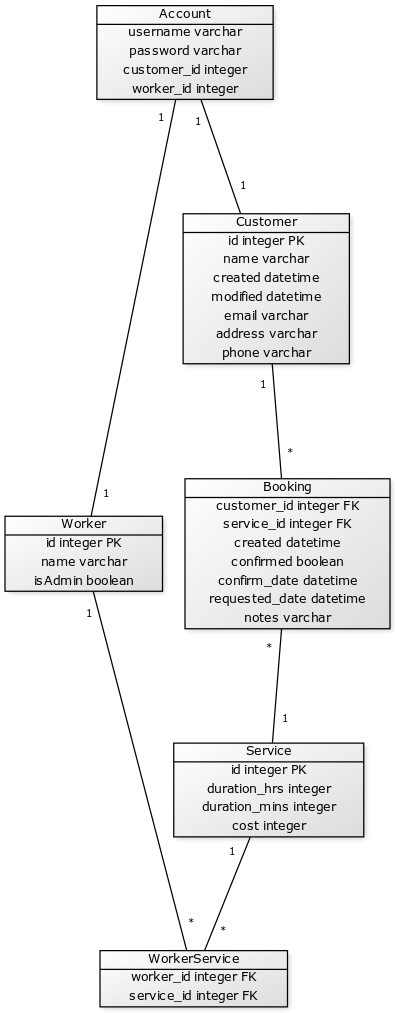
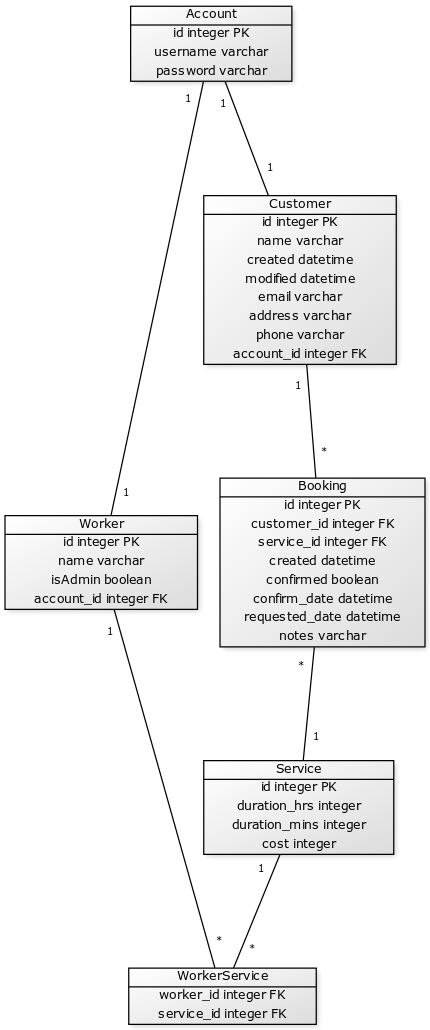
tietokantakaavion päivitys, Asiakkaan ja Työntekijän viiteavaimet Accout-tauluun

Changed region(s): [[0.0, 0.0, 1.0, 1.0]]

diff --git a/application/templates/account/loginform.html b/application/templates/account/loginform.html
@@ -6,13 +6,13 @@
 <form method="POST" action="{{ url_for('customer_login') }}">
     <table>
         <tr>
-          {{ form.name.label}}
+          {{ form.username.label}}
         </tr>
         <tr>
-            <td>{{ form.name}}</td>
+            <td>{{ form.username}}</td>
             <td>
                 <ul>
-                {% for error in form.name.errors %}
+                {% for error in form.username.errors %}
                 <li>{{ error }}</li>
                 {% endfor %}
                 </ul>
@@ -32,7 +32,7 @@
             </td>
         </tr>
     </table>
-  <input type="submit" name="login_customer "value="Login"/>
+  <input type="submit" name="user_login" value="Login"/>
   <input type="reset">
 </form>
 

diff --git a/application/customer/models.py b/application/customer/models.py
@@ -6,26 +6,14 @@ class Customer(db.Model):
     date_modified = db.Column(db.DateTime, default=db.func.current_timestamp(),
                               onupdate=db.func.current_timestamp())
     name = db.Column(db.String(144), nullable=False)
-    password = db.Column(db.String(144), nullable=False)
     email = db.Column(db.String(144), nullable=False)
     address = db.Column(db.String(144), nullable=False)
     phone = db.Column(db.String(144), nullable=False)
+    account_id = db.Column(db.Integer, db.ForeignKey('account.id'))
 
-    def __init__(self, name, password, email, address, phone):
+    def __init__(self, name, email, address, phone, account_id):
         self.name = name
-        self.password = password
         self.email = email
         self.address = address
         self.phone = phone
-
-    def get_id(self):
-        return self.id
-
-    def is_active(self):
-        return True
-
-    def is_anonymous(self):
-        return False
-
-    def is_authenticated(self):
-        return True
+        self.account_id = account_id

diff --git a/application/account/models.py b/application/account/models.py
@@ -1,0 +1,29 @@
+from application import db
+
+class Account(db.Model):
+    id = db.Column(db.Integer, primary_key=True)
+    date_created = db.Column(db.DateTime, default=db.func.current_timestamp())
+    date_modified = db.Column(db.DateTime, default=db.func.current_timestamp(),
+                              onupdate=db.func.current_timestamp())
+    username = db.Column(db.String(144), nullable=False)
+    password = db.Column(db.String(144), nullable=False)
+    linked_worker = db.relationship('Worker', backref='account', uselist=False, lazy=True)
+    linked_customer = db.relationship('Customer', backref='account', uselist=False, lazy=True)
+
+    def __init__(self, username, password):
+        self.username = username
+        self.password = password
+        self.customer_id = customer_id
+        self.worker_id = worker_id
+
+    def get_id(self):
+        return self.id
+
+    def is_active(self):
+        return True
+
+    def is_anonymous(self):
+        return False
+
+    def is_authenticated(self):
+        return True

diff --git a/application/customer/forms.py b/application/customer/forms.py
@@ -5,18 +5,10 @@ from wtforms.validators import InputRequired, EqualTo
 
 class NewCustomerForm(FlaskForm):
     name = StringField("Name: ", [InputRequired(), validators.Length(min=1, max=50)])
-    password = PasswordField("Password: ", [InputRequired(), validators.Length(min=5, max=100), EqualTo('confirm_password', message='Passwords must match')])
     confirm_password = PasswordField('Repeat password: ')
     email = EmailField('Email: ', [InputRequired(), validators.DataRequired(), validators.Email()])
     address = StringField("Address : ", [InputRequired(), validators.Length(min=5, max=100)])
     phone = StringField("Phone : ", [InputRequired(), validators.Length(min=5, max=20)])
-
-    class Meta:
-        csrf = False
-
-class CustomerLoginForm(FlaskForm):
-    name = StringField("Name: ", [InputRequired()])
-    password = PasswordField("Password: ", [InputRequired()])
 
     class Meta:
         csrf = False

diff --git a/application/worker/models.py b/application/worker/models.py
@@ -9,24 +9,11 @@ class Worker(db.Model):
     username = db.Column(db.String(144), nullable=False)
     password = db.Column(db.String(144), nullable=False)
     isAdmin = db.Column(db.Boolean, nullable=False)
+    account_id = db.Column(db.Integer, db.ForeignKey('account.id'))
 
-    def __init__(self, name, username, password, isAdmin):
+    def __init__(self, name, username, password, isAdmin, account_id):
         self.name = name
         self.username = username
         self.password = password
         self.isAdmin = isAdmin
-  
-    #def get_id(self):
-    #    return self.id
-
-    #def is_active(self):
-    #    return True
-
-    #def is_anonymous(self):
-    #    return False
-
-    #def is_authenticated(self):
-    #    return True
-
-    #def is_admin(self):
-    #    return self.isAdmin
+        self.account_id = account_id

diff --git a/application/account/views.py b/application/account/views.py
@@ -1,0 +1,22 @@
+from flask import render_template, request, redirect, url_for
+
+from application import app
+from application.account.models import Account
+from application.account.forms import LoginForm
+
+@app.route("/login", methods = ["GET", "POST"])
+def user_login():
+    if request.method == "GET":
+        return render_template("account/loginform.html", form = LoginForm())
+
+    form = LoginForm(request.form)
+    # mahdolliset validoinnit
+
+    account = Account.query.filter_by(username=form.username.data, password=form.password.data).first()
+    if not account:
+        return render_template("account/loginform.html", form = form,
+                               error = "No such username or password")
+
+
+    print("Käyttäjä " + account.username + " tunnistettiin")
+    return redirect(url_for("index"))    

diff --git a/run.py b/run.py
@@ -2,36 +2,3 @@ from application import app
 
 if __name__ == '__main__':
     app.run(debug=True)
-
-# PYLINT PATH
-# PYTHON PATH
-
-
-#from flask import Flask, render_template
-#app = Flask(__name__)
-
-#class Item:
-#    def __init__(self, name):
-#        self.name = name
-
-#nimi = "Erkki Esimerkki"
-
-#lista = [1,1,2,3,5,8,11]
-
-#esineet = []
-#esineet.append(Item("eka"))
-#esineet.append(Item("toka"))
-#esineet.append(Item("kolmas"))
-#esineet.append(Item("neljäs"))
-
-
-#@app.route("/")
-#def hello():
-#    return render_template("index.html")
-
-#@app.route("/demo")
-#def content():
-#    return render_template("demo.html", nimi=nimi, lista=lista, esineet=esineet)
-#
-#if __name__ == "__main__":
-#    app.run(debug=True)

diff --git a/application/__init__.py b/application/__init__.py
@@ -14,7 +14,7 @@ from application.booking import models
 from application.worker import views
 from application.worker import models
 from application.service import models
-from application.customer import models
-from application.customer import views
+from application.account import models
+from application.account import views
   
 db.create_all()

diff --git a/application/account/forms.py b/application/account/forms.py
@@ -1,0 +1,10 @@
+from flask_wtf import FlaskForm
+from wtforms import StringField, PasswordField, validators
+from wtforms.validators import InputRequired
+
+class LoginForm(FlaskForm):
+    name = StringField("Name: ", [InputRequired()])
+    password = PasswordField("Password: ", [InputRequired()])
+
+    class Meta:
+        csrf = False
